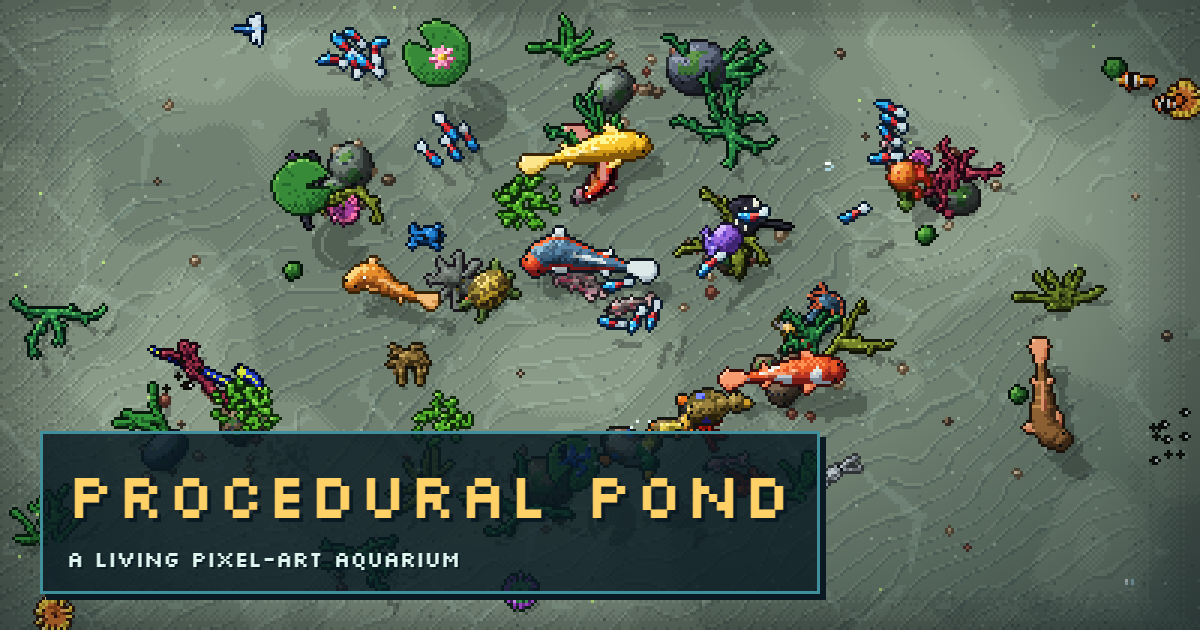
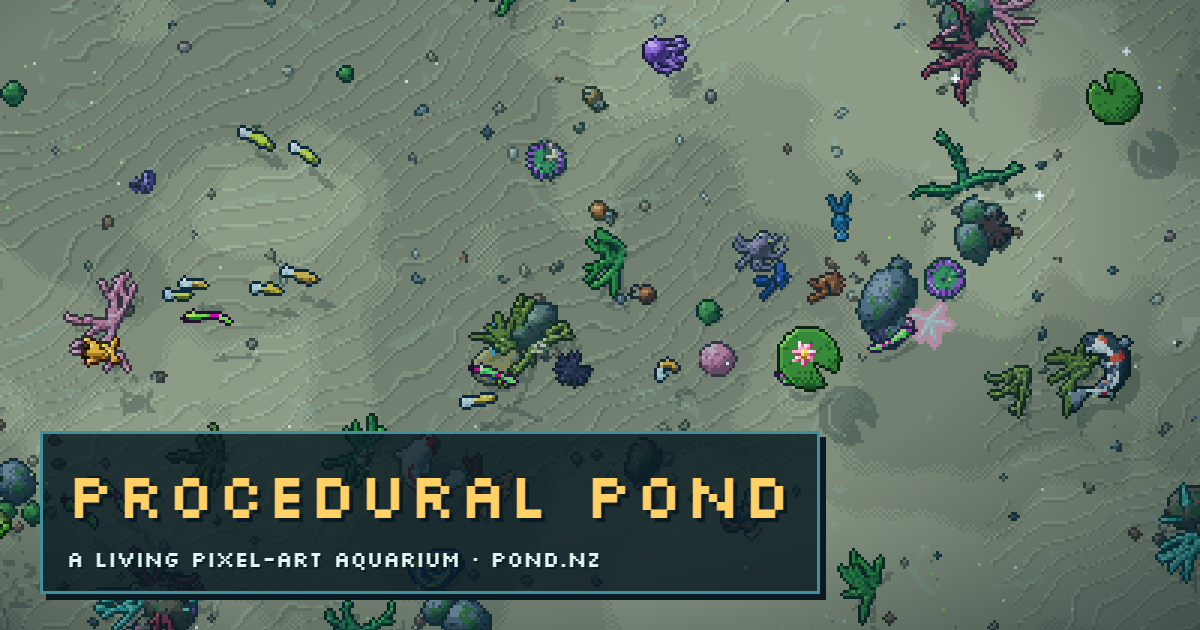
Make pond.nz the canonical home
Canonical, Open Graph, Twitter, JSON-LD, sitemap and robots now point at
https://pond.nz/. nginx serves pond.nz and 301-redirects www.pond.nz and
the legacy pond.sardistic.com (path and ?pond= seed preserved). New
share image rendered from the current look.

diff --git a/index.html b/index.html
@@ -5,7 +5,7 @@
   <meta name="viewport" content="width=device-width, initial-scale=1">
   <title>Procedural Pond · a living pixel-art aquarium</title>
   <meta name="description" content="Watch a living pixel-art pond: procedurally animated koi, frogs, octopus and ever-new fish species that hunt, breed and migrate, right in your browser.">
-  <link rel="canonical" href="https://pond.sardistic.com/">
+  <link rel="canonical" href="https://pond.nz/">
   <meta name="robots" content="index, follow, max-image-preview:large">
   <meta name="author" content="sardistic">
   <meta name="theme-color" content="#0e3a46">
@@ -15,15 +15,15 @@
   <meta property="og:site_name" content="Procedural Pond">
   <meta property="og:title" content="Procedural Pond · a living pixel-art aquarium">
   <meta property="og:description" content="Procedurally animated koi, frogs, octopus and newly invented fish that grow, breed, hunt and migrate. Feed them, follow them, share your pond.">
-  <meta property="og:url" content="https://pond.sardistic.com/">
-  <meta property="og:image" content="https://pond.sardistic.com/og.png">
+  <meta property="og:url" content="https://pond.nz/">
+  <meta property="og:image" content="https://pond.nz/og.png">
   <meta property="og:image:width" content="1200">
   <meta property="og:image:height" content="630">
   <meta property="og:image:alt" content="A top-down pixel-art pond with koi, lily pads, a turtle and schooling fish">
   <meta name="twitter:card" content="summary_large_image">
   <meta name="twitter:title" content="Procedural Pond · a living pixel-art aquarium">
   <meta name="twitter:description" content="Procedurally animated koi, frogs, octopus and newly invented fish that grow, breed, hunt and migrate.">
-  <meta name="twitter:image" content="https://pond.sardistic.com/og.png">
+  <meta name="twitter:image" content="https://pond.nz/og.png">
   <meta name="twitter:image:alt" content="A top-down pixel-art pond with koi, lily pads, a turtle and schooling fish">
 
   <link rel="icon" href="favicon.ico" sizes="16x16 32x32 48x48">
@@ -41,7 +41,7 @@
     "@context": "https://schema.org",
     "@type": "WebApplication",
     "name": "Procedural Pond",
-    "url": "https://pond.sardistic.com/",
+    "url": "https://pond.nz/",
     "description": "A living pixel-art pond of procedurally animated animals. Koi, frogs, octopus, ducks and procedurally invented fish species grow, breed, hunt and migrate in a self-running ecosystem with a day/night cycle and weather.",
     "applicationCategory": "EntertainmentApplication",
     "genre": "Simulation",
@@ -49,8 +49,8 @@
     "browserRequirements": "Requires JavaScript and HTML5 canvas",
     "isAccessibleForFree": true,
     "offers": { "@type": "Offer", "price": "0", "priceCurrency": "USD" },
-    "image": "https://pond.sardistic.com/og.png",
-    "screenshot": "https://pond.sardistic.com/og.png",
+    "image": "https://pond.nz/og.png",
+    "screenshot": "https://pond.nz/og.png",
     "inLanguage": "en",
     "author": { "@type": "Person", "name": "sardistic", "url": "https://sardistic.com/" },
     "sameAs": ["https://github.com/sardistic/Procedural-Pond"]

diff --git a/README.md b/README.md
@@ -4,7 +4,7 @@ A live top-down aquarium of procedurally animated animals, drawn in a chunky
 voxel / pixel-art style. It is inspired by
 [argonautcode/animal-proc-anim](https://github.com/argonautcode/animal-proc-anim).
 
-**Live at [pond.sardistic.com](https://pond.sardistic.com/).**
+**Live at [pond.nz](https://pond.nz/).**
 
 To run it locally, open `index.html` in a browser. There is no build step and no server needed.
 The pixel font loads from Google Fonts and falls back to monospace when offline.
@@ -90,7 +90,7 @@ With **Life** on (Scene section), the pond runs itself:
 ## Hosting
 
 The `Dockerfile` builds a small nginx image that serves the site files. Configuration is in
-`deploy/nginx.conf`: caching, gzip, security headers and a Content-Security-Policy.
+`deploy/nginx.conf`: caching, gzip, security headers, a Content-Security-Policy, and 301 redirects from `www.pond.nz` and `pond.sardistic.com` to the canonical `pond.nz`.
 
 ```sh
 docker build -t procedural-pond .

diff --git a/docs/agent/DECISIONS.md b/docs/agent/DECISIONS.md
@@ -108,3 +108,11 @@ same key newer than `MERGE_WINDOW` (40 sim-seconds) is updated in place. Its
 count grows, `data` accumulates, `merge(entry)` rewrites the text, and it
 moves back to the top. Rare births, new species and sky events use no key,
 so they are never merged.
+
+## pond.nz is the canonical domain
+The canonical URL, Open Graph and Twitter tags, JSON-LD, sitemap and robots all
+point at `https://pond.nz/`. nginx serves pond.nz (and any other host, so the
+127.0.0.1 health check works) and permanently redirects `www.pond.nz` and the
+legacy `pond.sardistic.com` to `https://pond.nz$request_uri`, so seed links keep
+working. Keep the legacy hostname routed in the tunnel so old links still
+redirect.
